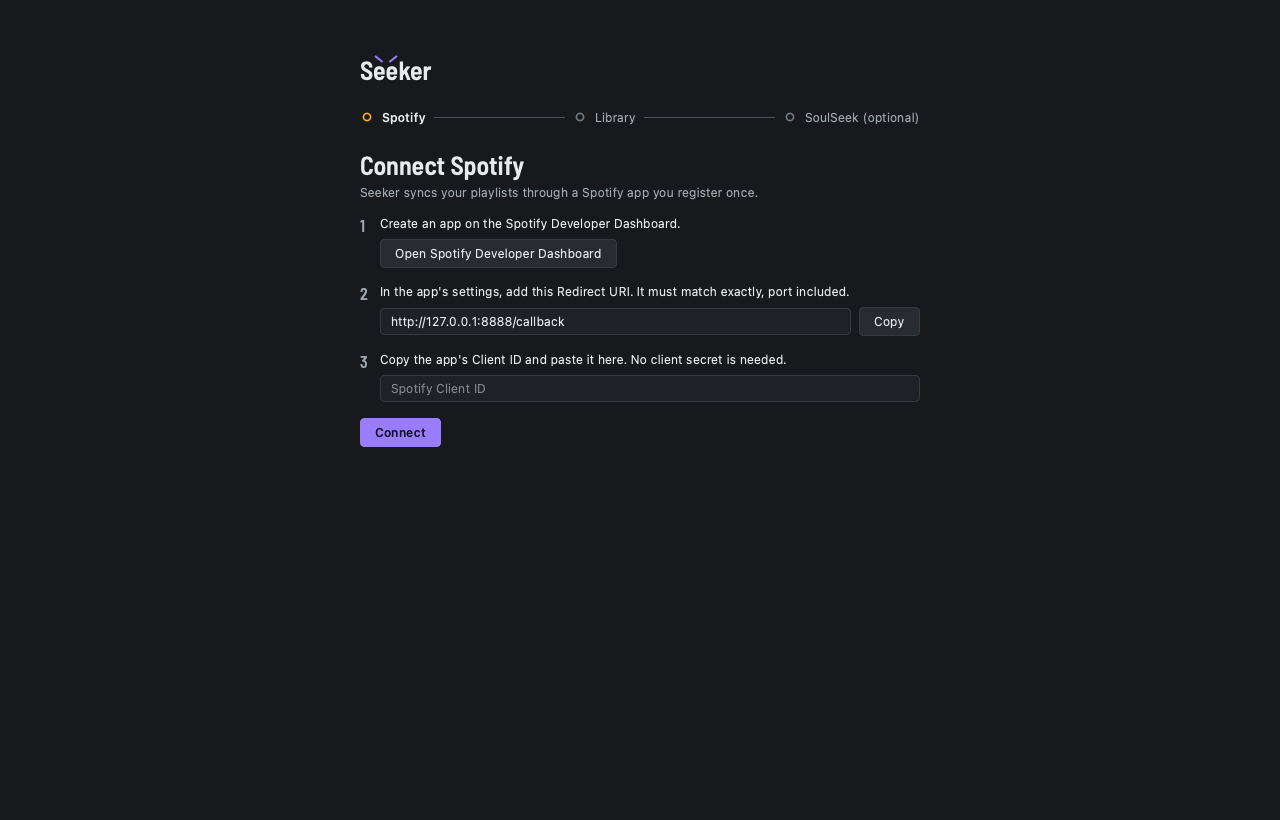
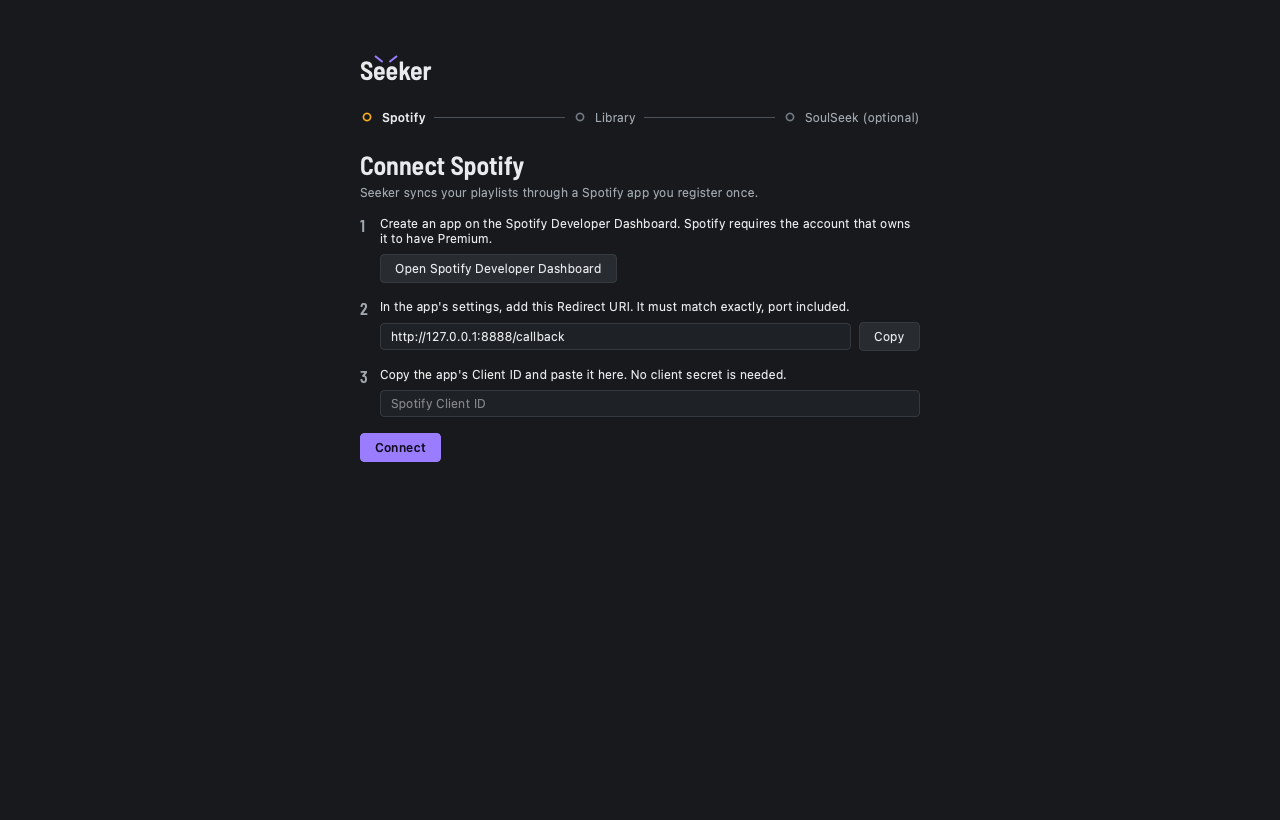
README: Install says the Spotify app's owner needs Premium
Names Spotify's Development Mode rule beside the Spotify app it
applies to, linked to Spotify's quota-modes page; the CHANGELOG's
Unreleased section records it with the wizard's sentence, and the
README's wizard.png shows that sentence. The other README images
were regenerated too, but came out changed without any UI change
behind it, so they stay as committed.

Claude-Session: https://claude.ai/code/session_011fBarJypAd4HUxazRv5XVC

Changed region(s): [[0.2812, 0.2744, 0.7188, 0.5793], [0.5938, 0.2439, 0.625, 0.2744], [0.5312, 0.2439, 0.5625, 0.2744]]

diff --git a/README.md b/README.md
@@ -67,7 +67,9 @@ You need:
 
 - a [Spotify app](https://developer.spotify.com/dashboard) of your own,
   with the redirect URI `http://127.0.0.1:8888/callback`, for its Client
-  ID (no secret: Seeker uses PKCE);
+  ID (no secret: Seeker uses PKCE). Spotify requires the account that
+  owns the app to have
+  [Premium](https://developer.spotify.com/documentation/web-api/concepts/quota-modes);
 - [Docker Desktop](https://www.docker.com/products/docker-desktop/), for
   SoulSeek;
 - optionally, `brew install chromaprint`, for duplicate detection.

diff --git a/CHANGELOG.md b/CHANGELOG.md
@@ -7,6 +7,13 @@ uses [Semantic Versioning](https://semver.org/spec/v2.0.0.html).
 
 ## [Unreleased]
 
+### Changed
+
+- **Spotify Premium is named up front.** Spotify runs an app in
+  Development Mode, which every Seeker user's own Spotify app is, only
+  while its owner has Premium. The setup wizard's Spotify step and the
+  README's Install section now say so.
+
 ## [0.1.1] - 2026-10-26
 
 A security release; nothing else changes.
